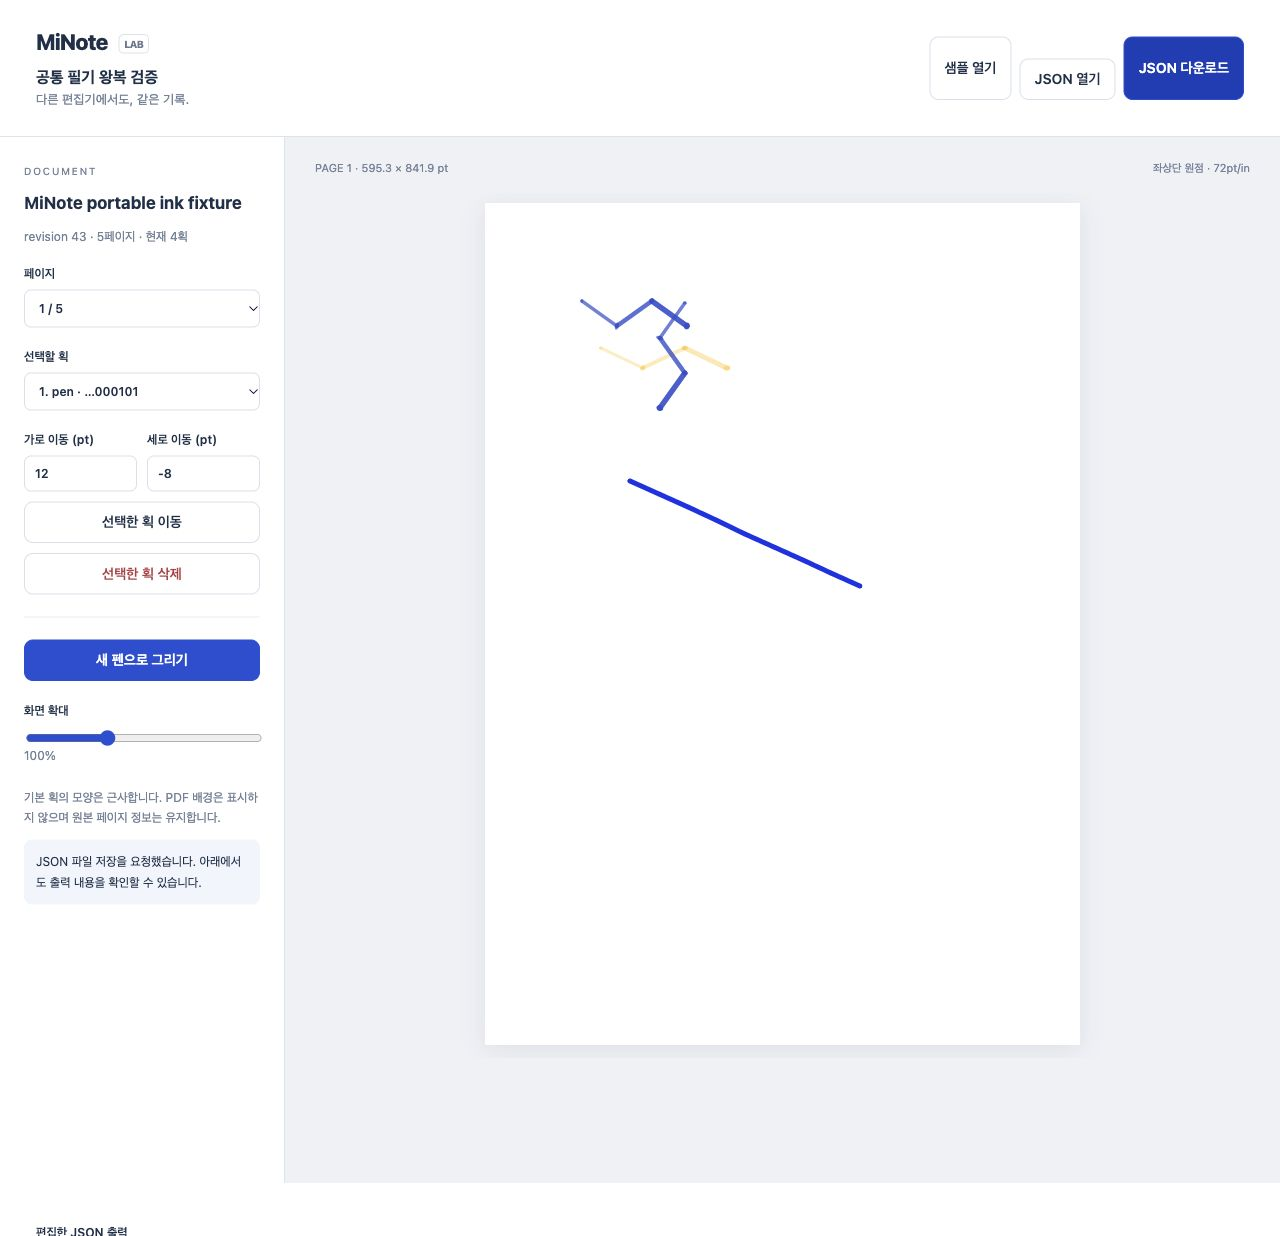
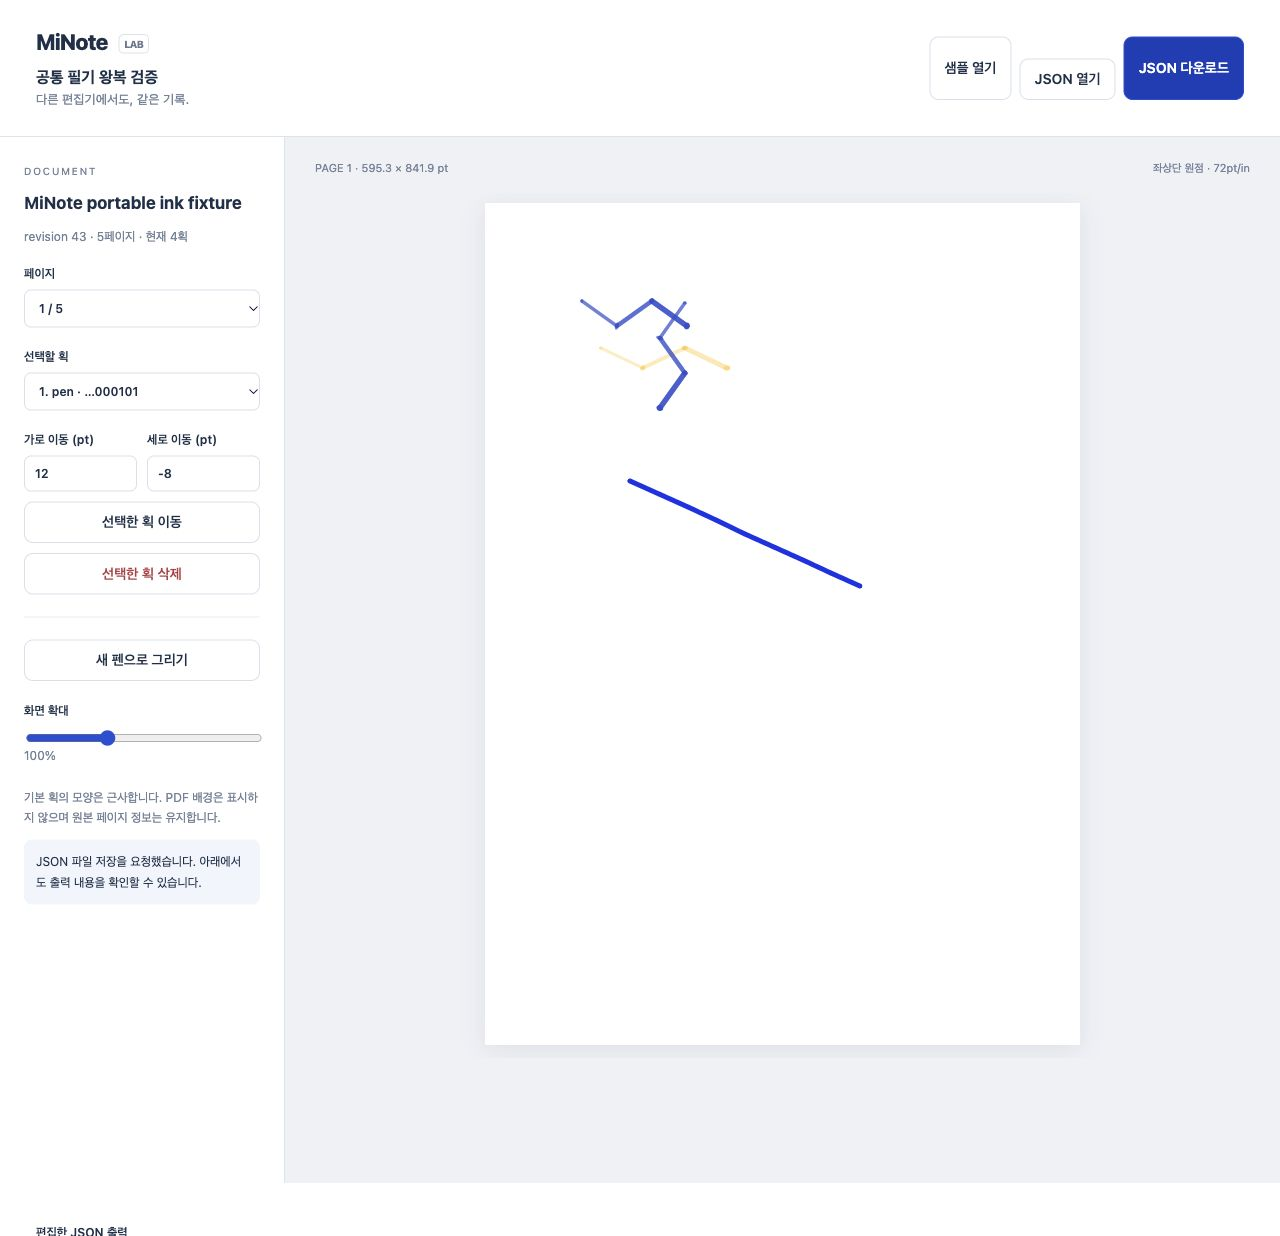
fix(portable): preserve ordered stroke identities and cancel interrupted input

Changed region(s): [[0.0, 0.4919, 0.2188, 0.5534]]

diff --git a/MiNote/InkAdapter.swift b/MiNote/InkAdapter.swift
@@ -3,11 +3,13 @@ import PencilKit
 
 /// UI framework details stay here; the document package only knows numeric values.
 enum InkAdapterError: Error, LocalizedError {
+    case ambiguousIdentity
     case unsupportedInk, unsupportedMask, unsupportedColor
     case unsupportedContentVersion(Int)
     case unsupportedPointAttribute(String)
     var errorDescription: String? {
         switch self {
+        case .ambiguousIdentity: "겹치는 획의 ID를 확정할 수 없어 저장하지 않았습니다. 현재 필기와 기존 저장본은 유지됩니다."
         case .unsupportedInk: "현재는 펜과 형광펜만 저장할 수 있습니다."
         case .unsupportedMask: "부분 지우개로 편집한 획은 아직 지원하지 않습니다."
         case .unsupportedContentVersion(let version): "PencilKit 콘텐츠 버전 \(version)은 지원하지 않습니다."
@@ -21,65 +23,69 @@ enum InkAdapter {
     private static let contentID = UUID(uuid: (0,0,0,0,0,0,0,0,0,0,0,0,0,0,0,0))
 
     static func encode(_ drawing: PKDrawing, preserving known: [InkStroke]) throws -> [InkStroke] {
-        var identities: [InkStroke: [InkStroke]] = [:]
-        for stroke in known.reversed() {
-            identities[key(stroke), default: []].append(stroke)
+        let values = try drawing.strokes.map(portableValue)
+        guard !known.isEmpty else { return values }
+        let reconstructed = try decode(known).strokes.map(portableValue)
+        var candidates: [InkStroke: [Int]] = [:]
+        for index in known.indices {
+            let raw = key(known[index]), restored = key(reconstructed[index])
+            candidates[raw, default: []].append(index)
+            if restored != raw { candidates[restored, default: []].append(index) }
         }
-        var restoredIdentities: [InkStroke: [InkStroke]] = [:]
-        var didBuildRestoredIdentities = false
-        var used = Set<UUID>()
-        func consume(_ fingerprint: InkStroke, from values: inout [InkStroke: [InkStroke]]) -> InkStroke? {
-            while let candidate = values[fingerprint]?.popLast() {
-                if used.insert(candidate.id).inserted { return candidate }
+        // Supported PencilKit edits append or erase strokes without reordering
+        // surviving strokes. Match the entire ordered sequence, so a raw value
+        // cannot steal the provenance of another stroke's reconstruction alias.
+        let options = values.map { candidates[key($0)] ?? [] }
+        var earliest = Array<Int?>(repeating: nil, count: values.count)
+        var latest = earliest
+        var prior = -1
+        for index in values.indices where !options[index].isEmpty {
+            guard let match = options[index].first(where: { $0 > prior }) else {
+                throw InkAdapterError.ambiguousIdentity
             }
-            return nil
+            earliest[index] = match; prior = match
         }
-        return try drawing.strokes.map { stroke in
-            let value = try portableValue(stroke)
-            let fingerprint = key(value)
-            if let original = consume(fingerprint, from: &identities) { return original }
-            if !didBuildRestoredIdentities {
-                // PencilKit can quantize angles again when reconstructing a point.
-                // Compare with the exact reconstruction, not a broad epsilon that
-                // could mistake a user's small edit for an unchanged stroke.
-                let reconstructed = try decode(known).strokes
-                for (original, restored) in zip(known, reconstructed).reversed() {
-                    restoredIdentities[key(try portableValue(restored)), default: []].append(original)
-                }
-                didBuildRestoredIdentities = true
+        var following = known.count
+        for index in values.indices.reversed() where !options[index].isEmpty {
+            guard let match = options[index].last(where: { $0 < following }) else {
+                throw InkAdapterError.ambiguousIdentity
             }
-            return consume(fingerprint, from: &restoredIdentities) ?? value
+            latest[index] = match; following = match
+        }
+        guard earliest == latest else { throw InkAdapterError.ambiguousIdentity }
+        return values.indices.map { index in
+            earliest[index].map { known[$0] } ?? values[index]
         }
     }
 
     private static func portableValue(_ stroke: PKStroke) throws -> InkStroke {
-            guard stroke.requiredContentVersion == .version1 else { throw InkAdapterError.unsupportedContentVersion(stroke.requiredContentVersion.rawValue) }
-            guard stroke.mask == nil else { throw InkAdapterError.unsupportedMask }
-            let tool: InkTool
-            switch stroke.ink.inkType {
-            case .pen: tool = .pen
-            case .marker: tool = .marker
-            default: throw InkAdapterError.unsupportedInk
-            }
-            var red: CGFloat = 0, green: CGFloat = 0, blue: CGFloat = 0, alpha: CGFloat = 0
-            guard stroke.ink.color.getRed(&red, green: &green, blue: &blue, alpha: &alpha) else {
-                throw InkAdapterError.unsupportedColor
-            }
-            let points = try stroke.path.map { point -> InkPoint in
-                let ordinary = PKStrokePoint(location: point.location, timeOffset: point.timeOffset,
-                    size: point.size, opacity: point.opacity, force: point.force,
-                    azimuth: point.azimuth, altitude: point.altitude)
-                if #available(iOS 26, *), point.threshold != ordinary.threshold { throw InkAdapterError.unsupportedPointAttribute("threshold") }
-                if #available(iOS 27, *), point.lateralJitter != ordinary.lateralJitter { throw InkAdapterError.unsupportedPointAttribute("lateralJitter") }
-                return InkPoint(x: point.location.x, y: point.location.y, timeOffset: point.timeOffset,
-                    width: point.size.width, height: point.size.height, opacity: point.opacity,
-                    force: point.force, azimuth: point.azimuth, altitude: point.altitude,
-                    secondaryScale: point.secondaryScale)
-            }
-            let t = stroke.transform
-            return InkStroke(tool: tool, color: InkColor(red: red, green: green, blue: blue, alpha: alpha),
-                points: points, transform: InkTransform(a: t.a, b: t.b, c: t.c, d: t.d, tx: t.tx, ty: t.ty),
-                randomSeed: stroke.randomSeed, creationTime: stroke.path.creationDate.timeIntervalSince1970)
+        guard stroke.requiredContentVersion == .version1 else { throw InkAdapterError.unsupportedContentVersion(stroke.requiredContentVersion.rawValue) }
+        guard stroke.mask == nil else { throw InkAdapterError.unsupportedMask }
+        let tool: InkTool
+        switch stroke.ink.inkType {
+        case .pen: tool = .pen
+        case .marker: tool = .marker
+        default: throw InkAdapterError.unsupportedInk
+        }
+        var red: CGFloat = 0, green: CGFloat = 0, blue: CGFloat = 0, alpha: CGFloat = 0
+        guard stroke.ink.color.getRed(&red, green: &green, blue: &blue, alpha: &alpha) else {
+            throw InkAdapterError.unsupportedColor
+        }
+        let points = try stroke.path.map { point -> InkPoint in
+            let ordinary = PKStrokePoint(location: point.location, timeOffset: point.timeOffset,
+                size: point.size, opacity: point.opacity, force: point.force,
+                azimuth: point.azimuth, altitude: point.altitude)
+            if #available(iOS 26, *), point.threshold != ordinary.threshold { throw InkAdapterError.unsupportedPointAttribute("threshold") }
+            if #available(iOS 27, *), point.lateralJitter != ordinary.lateralJitter { throw InkAdapterError.unsupportedPointAttribute("lateralJitter") }
+            return InkPoint(x: point.location.x, y: point.location.y, timeOffset: point.timeOffset,
+                width: point.size.width, height: point.size.height, opacity: point.opacity,
+                force: point.force, azimuth: point.azimuth, altitude: point.altitude,
+                secondaryScale: point.secondaryScale)
+        }
+        let t = stroke.transform
+        return InkStroke(tool: tool, color: InkColor(red: red, green: green, blue: blue, alpha: alpha),
+            points: points, transform: InkTransform(a: t.a, b: t.b, c: t.c, d: t.d, tx: t.tx, ty: t.ty),
+            randomSeed: stroke.randomSeed, creationTime: stroke.path.creationDate.timeIntervalSince1970)
     }
 
     static func decode(_ strokes: [InkStroke]) throws -> PKDrawing {

diff --git a/MiNoteTests/PortableInkTests.swift b/MiNoteTests/PortableInkTests.swift
@@ -39,6 +39,43 @@ import XCTest
         XCTAssertNotEqual(encoded[0], original)
     }
 
+    func testConflictingRawAndReconstructedFingerprintsKeepOrderedProvenance() throws {
+        let a = try fixtureDocument("source").pages[0].strokes[0]
+        var b = try InkAdapter.encode(InkAdapter.decode([a]), preserving: [])[0]
+        b.id = PortableFixture.id(999)
+        let known = [a, b]
+        XCTAssertEqual(try InkAdapter.encode(InkAdapter.decode(known), preserving: known), known)
+    }
+
+    func testDuplicateShapeDeletionUsesRemainingStrokeOrderOrRejectsAmbiguity() throws {
+        let known = try fixtureDocument("source").pages[0].strokes
+        let drawing = try InkAdapter.decode(known)
+        XCTAssertEqual(try InkAdapter.encode(PKDrawing(strokes: Array(drawing.strokes.dropFirst())), preserving: known), Array(known.dropFirst()))
+        var duplicate = known[0]; duplicate.id = PortableFixture.id(999)
+        let ambiguous = [known[0], duplicate]
+        XCTAssertThrowsError(try InkAdapter.encode(InkAdapter.decode([duplicate]), preserving: ambiguous))
+    }
+
+    func testAmbiguousIdentityRetainsVisibleInkAndLastSavedDocument() async throws {
+        let stroke = try fixtureDocument("source").pages[0].strokes[0]
+        var duplicate = stroke; duplicate.id = PortableFixture.id(999)
+        let original = NoteDocument(title: "Ambiguous duplicate", pages: [NotePage(strokes: [stroke, duplicate])])
+        let directory = FileManager.default.temporaryDirectory.appendingPathComponent(UUID().uuidString)
+        defer { try? FileManager.default.removeItem(at: directory) }
+        let store = DocumentStore(directory: directory)
+        try await store.save(original)
+        let session = EditorSession(store: store)
+        await session.loadIfNeeded()
+        let remaining = PKDrawing(strokes: Array(session.drawing.strokes.dropFirst()))
+        session.receiveDrawing(remaining)
+        XCTAssertEqual(session.strokeCount, 1)
+        XCTAssertEqual(session.document, original)
+        guard case .failed = session.saveState else { return XCTFail("Ambiguous identity must block serialization") }
+        await session.flush()
+        let persisted = try await store.load()
+        XCTAssertEqual(persisted?.document, original)
+    }
+
     func testJavaScriptAndBrowserResultsCanBeReeditedUndoneSavedAndReopened() async throws {
         for name in ["edited", "browser-edited"] {
             let imported = try fixtureDocument(name)

diff --git a/docs/PROGRESS.md b/docs/PROGRESS.md
@@ -178,3 +178,15 @@
 - 명령: `node --test Tools/PortableInk/*.test.mjs`; `node Tools/PortableInk/roundtrip.mjs --check`; `swift test --package-path Packages/MiNoteCore`; `xcodebuild -project MiNote.xcodeproj -scheme MiNote -destination 'platform=iOS Simulator,id=<기기 UUID>' -derivedDataPath /private/tmp/minote-m0c-dd<18|26> -resultBundlePath /private/tmp/minote-m0c<18|26>-green.xcresult test`.
 - 기기: 18.6 `7964CDF4-782A-44C2-BC51-1176AF6C67AB`; 26.4 `423D4FF6-C678-45F9-9D3E-CB886EE82462`. 로그: `/private/tmp/minote-m0c-ui-final.log`, `minote-m0c-core-final.log`, `minote-m0c18-green.log`, `minote-m0c26-green.log`.
 - 아직 별도 리뷰/Notion/최종 인계는 미완료다. 실기기와 일반 브라우저 native download는 미검증이다. 다음 작업은 fresh reviewer 한 번이며 중요한 문제는 실제 재현 후 수정한다.
+
+### M0-C 별도 리뷰와 수정 (2026-10-03)
+- fresh `m0c_code_review` 한 번, 범위 `18843b0..40aef65`. Critical 없음, Important 2건. reviewer는 읽기 전용이며 구현/추가 reviewer를 dispatch하지 않았다.
+- 1: raw fingerprint가 다른 획의 재구성 fingerprint와 같을 때 ID와 원본 point data가 서로 바뀌었다. 실제 iPad fixture A/재구성 B로 RED를 확인했다(`minote-m0c-review-ink-red.log`, exit 65). 원본/정규화 후보 전체의 순서를 비교하여 earliest/latest 대응이 같은 경우만 원본 ID/값을 보존한다. 여러 대응/지원하지 않는 재정렬이면 명시적 오류다. 0.0001pt 실제 이동은 숨기지 않는다.
+- 같은 모양 중 첫 획 삭제도 원래 순서로 surviving ID를 확인한다. 완전히 같은 인접 획 한 개만 남아 어느 ID인지 알 수 없을 때는 저장을 차단하고 화면/기존 JSON을 보존하는 세션 테스트를 추가했다. ‘모든 중복에서 ID 보존’으로 주장하지 않는다. 정규화는 이제 전체 후보를 재구성하므로 복잡한 페이지 비용은 M3 측정 대상이다.
+- 2: pointerup이 시작 페이지 대신 현재 페이지에 저장하는 실제 handler 오류. owner/시작 scale을 입력에 연결하고 open/page/zoom/mode-exit/lost-capture 때 active pointer만 취소·release한다. 실제 이전 `app.mjs`로 handler RED 4/0을 확인하고 현 코드 GREEN을 확인했다(`minote-m0c-review-handlers-red.log`, exit 1; `minote-m0c-review-node-green.log`, exit 0). Node test는 DOM/canvas 경계만 대체하고 실제 앱 handler를 실행한다.
+- 집중 iPad GREEN: PortableInkTests 6/0(`minote-m0c-review-ink-green.log`). 이후 모호한 ID 실패 시 디스크 보존 테스트를 추가했다.
+- 리뷰 이후 최종 전체: Node **25/0**, core **26/0**(core 변경 없음), 18.6/26.4 각각 앱 **32/0**, UI **2/0**; 양 명령 exit 0 / TEST SUCCEEDED. 로그 `/private/tmp/minote-m0c-review-node-green.log`, `minote-m0c-core-final.log`, `minote-m0c18-review-final.log`, `minote-m0c26-review-final.log`; 결과 양 `minote-m0c<18|26>-review-final.xcresult`.
+- 실제 browser 파일 chooser로 `browser-edited.json` 재열기 성공. revision 43/4획, 확대 100→200→100 후 출력 텍스트가 fixture와 **완전히 동일**함을 확인했다. 최종 화면 `docs/assets/m0c-portable-ink.jpg`. native download 파일 저장 완료는 계속 미검증이다.
+- reviewer set-aside에 대한 판단: main 직접 작업/기록 보존은 사용자 지시; safe-integer/v2/pen 추가/미지 필드 거부는 도구의 선언된 범위; 근사 texture/marker/곡선과 PDF 배경 제외는 승인된 시험 범위; readonly 출력은 실제 왕복 근거이며 native download는 대기; programmatic undo는 명시적 command/session 검증이며 실제 Pencil 입력 결과가 아니다; 물리 Pencil/큰 문서/production JSON import/다른 플랫폼/부분 삭제·미래 객체는 후속이다.
+- Swift의 v2 unknown-key decoder는 기존 동작이며 이번에 future 객체를 보존한다고 확장 주장하지 않는다. 중복 삭제 ambiguity는 위의 명시적 차단으로 제한을 고쳤다. exotic JS object/중복 JSON key/extreme finite geometry는 지원 fixture 흐름에서 재현된 결함이 아니므로 지원 확대를 하지 않는다. 조밀한 시험 도구 formatting/입력 중 preview는 후속 개선이다. PDF xref 끝 공백은 원본 bytes 계약이라 제거하지 않는다. 남은 checkbox/Notion/인계는 이번 종료 작업으로 해결한다.
+- 다음: 리뷰 수정 코드 커밋 → 완료 기록/Notion 반영 → 다음 M1-A 계획을 인계한다. M1 코드는 이번에 작성하지 않는다.

diff --git a/Tools/PortableInk/README.md b/Tools/PortableInk/README.md
@@ -24,3 +24,5 @@ Shared fixtures live in `Packages/MiNoteCore/Tests/MiNoteCoreTests/Fixtures/Port
 - `browser-edited.json`: actual UI output after moving 101 by (12,-8), deleting 103 and drawing a new pen stroke. Its UUID and sampled points differ from the deterministic CLI fixture.
 
 On 2026-10-03, Codex IAB showed those edits and output, but its download event timed out. The browser fixture was saved from the visible read-only output. Native file download in a general browser remains unverified. See `docs/PROGRESS.md` for Swift/iPad reverse-edit evidence and remaining limits.
+
+The gesture controller binds input to its starting document/page and scale. Document replacement, page/zoom changes, mode exit and lost capture cancel it; secondary pointer events cannot cancel the primary stroke. Tests run the actual UI handlers with DOM/canvas boundaries faked. The final browser test reopened `browser-edited.json`, changed zoom 100→200→100%, and confirmed exported text exactly unchanged.
